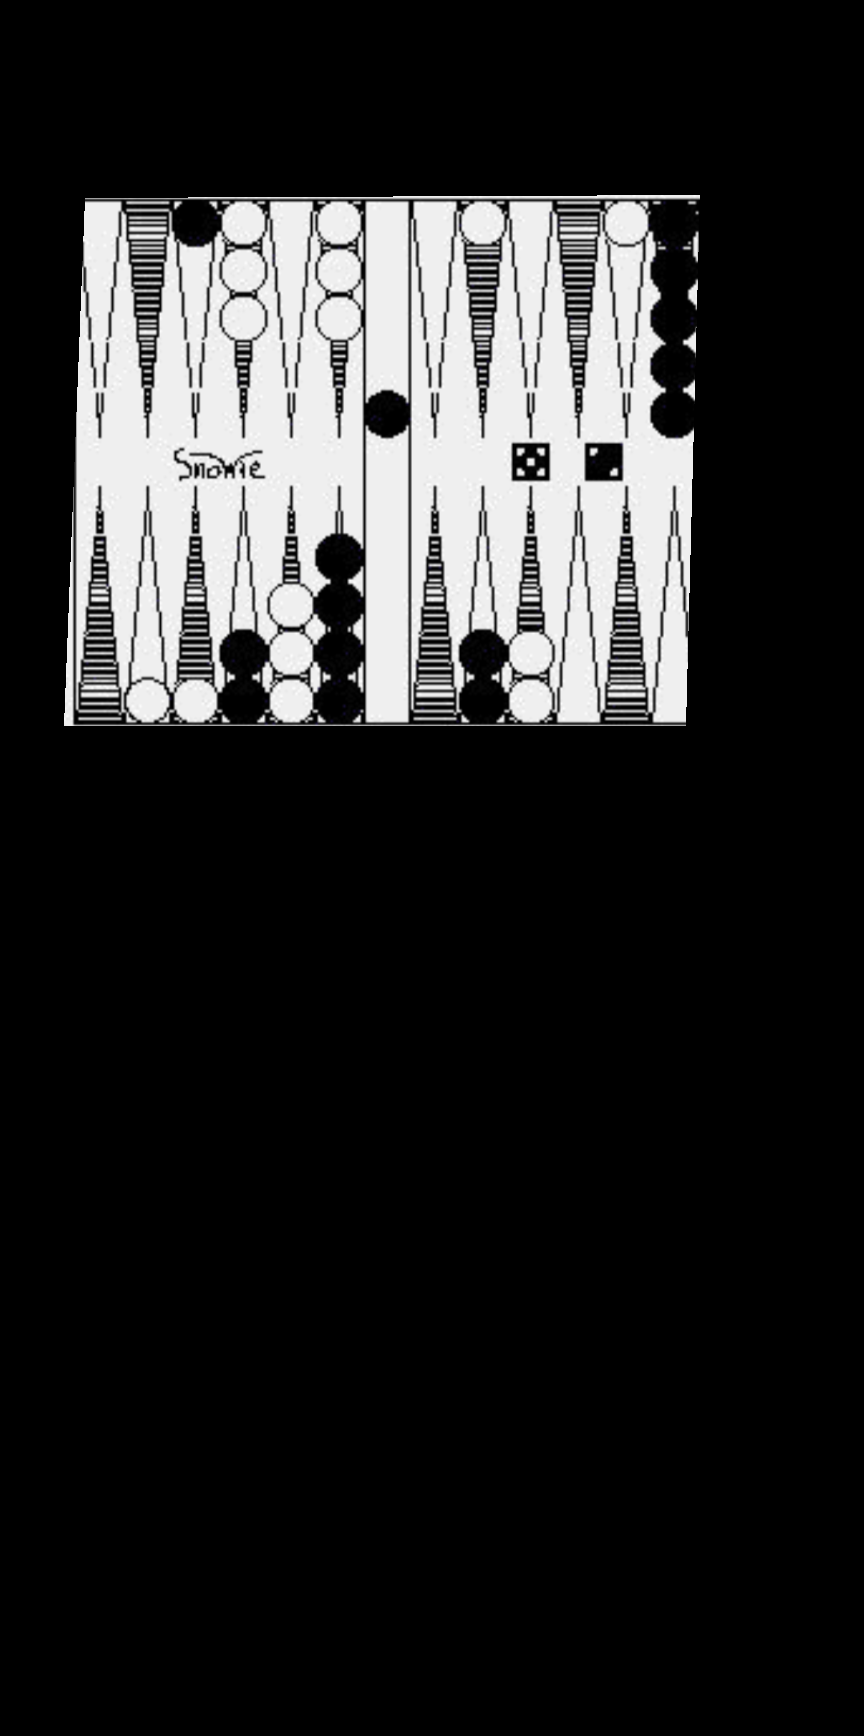
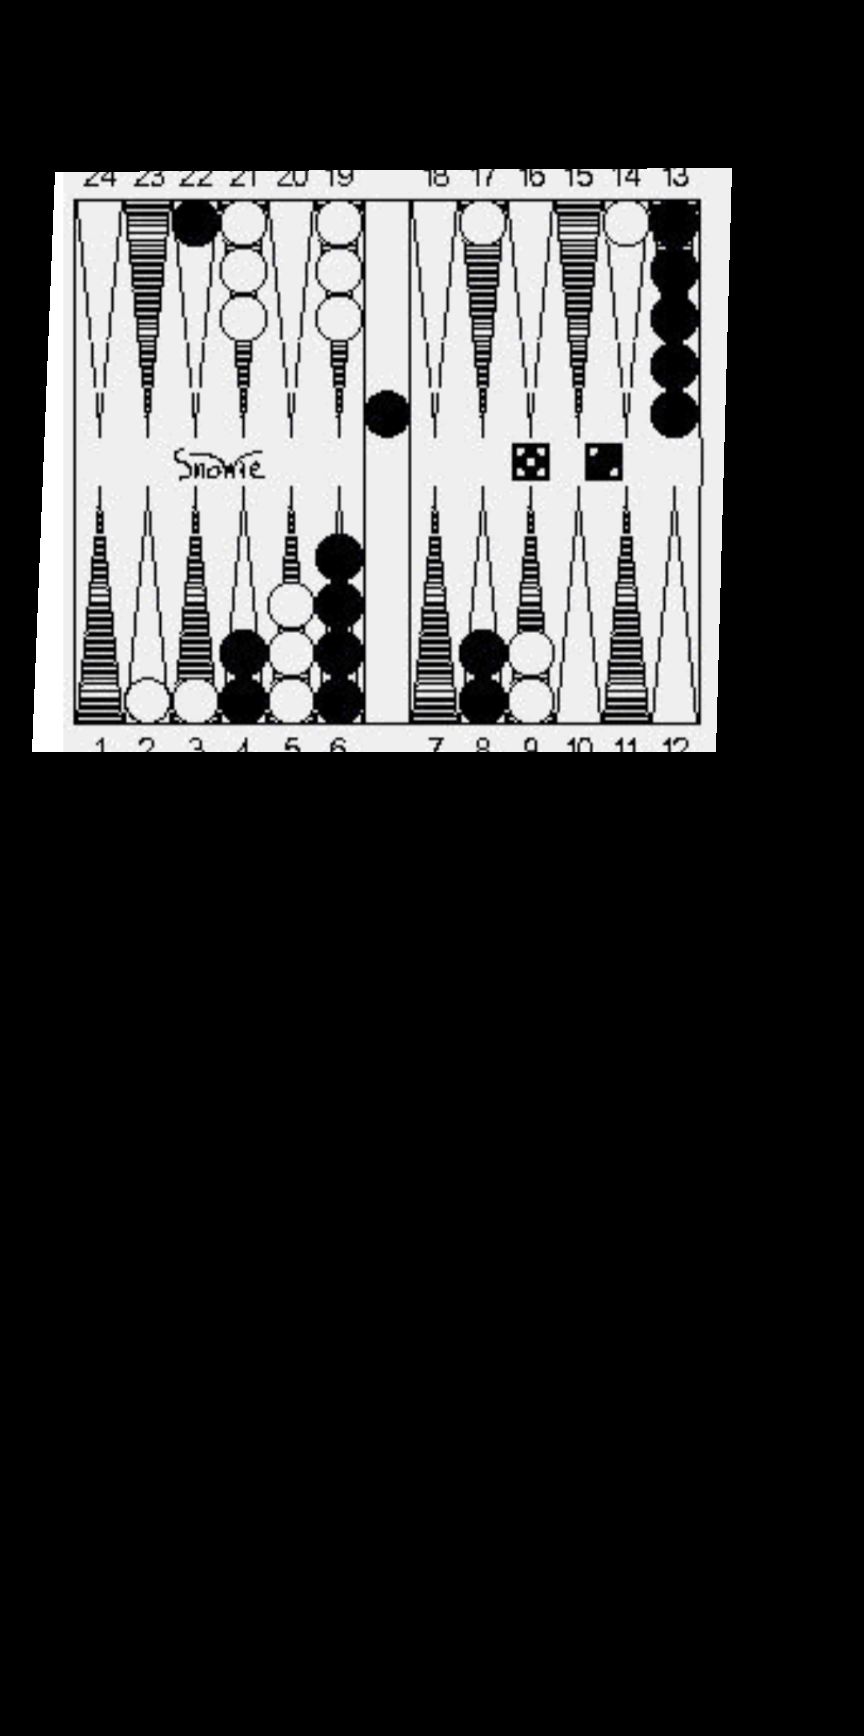
feat(recognizer): 背景の塗りつぶし処理で盤の周りを 10% 残し、集めた写真 20 組を塗り直す（TODO-179）
Claude-Session: https://claude.ai/code/session_01GwU7ktAoE8VjKZDXoMn89H

Changed region(s): [[0.0312, 0.0933, 0.8438, 0.4355]]

diff --git a/recognizer/import_collected.py b/recognizer/import_collected.py
@@ -9,7 +9,7 @@ first: the rest go in the next time. Skipped: a pair whose id is in samples/ alr
 before under another name, a photo that cannot be read. Nothing is added while a PR of an earlier time
 is open (its checks failed, it conflicts with main, or the service was restarted while waiting: someone has to
 look at it, and merge or close it).
-The photo is painted black outside the truth's corners (its size and the corners stay), and written
+The photo is painted black outside the truth's corners widened by 10% from the board's centre (its size and the corners stay), and written
 again without EXIF; of the truth, only the fields the samples have go in (anyone can send one), and the id.
 With BG_CLAUDE set, claude -p names the pair from the painted photo (what will be public anyway): its
 board and how it was taken (TODO-142). Without it, or when that fails, the pair is collected-<id>.
@@ -34,6 +34,7 @@ import cv2
 import numpy as np
 
 MAX = 10
+MARGIN = 0.1  # how much of the board is left around it, out from its centre (TODO-179)
 REPO = Path(__file__).resolve().parent.parent
 BRANCH = "claude/collected-import-"
 NAME = re.compile(
@@ -100,9 +101,11 @@ def pick(d, names, samples):
 
 
 def paint(img, corners):
-    """The photo with everything outside the board black."""
+    """The photo black outside the board widened by MARGIN from its centre (TODO-179); fillPoly stops at the photo's edges."""
+    c = np.array(corners, float)
+    c = c.mean(axis=0) + (c - c.mean(axis=0)) * (1 + MARGIN)
     mask = np.zeros(img.shape[:2], np.uint8)
-    cv2.fillPoly(mask, [np.round(np.array(corners)).astype(np.int32)], 255)
+    cv2.fillPoly(mask, [np.round(c).astype(np.int32)], 255)
     out = img.copy()
     out[mask == 0] = 0
     return out

diff --git a/analyzer/test_collected.py b/analyzer/test_collected.py
@@ -5,6 +5,7 @@ import sys
 from pathlib import Path
 
 import cv2
+import numpy as np
 import pytest
 
 import analysis  # noqa: F401  puts recognizer/ on sys.path
@@ -203,11 +204,23 @@ def test_import_paints_outside_the_board_and_keeps_only_the_fields_of_samples(
         and img.shape == orig.shape
     )
     (x0, y0), (x2, y2) = t["corners_TL_TR_BR_BL"][0], t["corners_TL_TR_BR_BL"][2]
-    assert (
-        img[: max(int(y0) - 3, 1)].max() == 0 and img[int(y2) + 3 :].max() == 0
-    )  # above and below the board
     cy, cx = int((y0 + y2) / 2), int((x0 + x2) / 2)
     assert (img[cy, cx] == orig[cy, cx]).all()  # inside, as it was
+
+
+def test_paint_leaves_10_percent_around_the_board_and_stops_at_the_edges():
+    img = np.full((100, 200, 3), 255, np.uint8)
+    # a board of 100x50 at the centre (the margin 5 and 2.5 each side), and one past the photo's left edge
+    out = import_collected.paint(img, [(50, 25), (150, 25), (150, 75), (50, 75)])
+    assert (out[50, 46] == 255).all() and (out[50, 44] == 0).all()  # left: 50 - 5
+    assert (out[23, 100] == 255).all() and (out[21, 100] == 0).all()  # top: 25 - 2.5
+    assert (out[50, 154] == 255).all() and (out[50, 156] == 0).all()  # right: 150 + 5
+    out = import_collected.paint(img, [(-10, 0), (90, 0), (90, 100), (-10, 100)])
+    assert (
+        out.shape == img.shape
+        and (out[50, 0] == 255).all()
+        and (out[50, 96] == 0).all()
+    )
 
 
 # A stand-in for claude -p: answers with FAKE_NAME on the last line (the real one is never called here)

diff --git a/archives/agents/TODO-179/repaint.py b/archives/agents/TODO-179/repaint.py
@@ -1,0 +1,35 @@
+"""Paint samples/collected-* again from the photos left in collected/ (TODO-179).
+
+    uv run python archives/agents/TODO-179/repaint.py <collected/> <dir for the old photos>
+"""
+
+import json
+import shutil
+import sys
+from pathlib import Path
+
+import cv2
+
+sys.path.insert(0, str(Path(__file__).resolve().parents[3] / "recognizer"))
+import import_collected  # noqa: E402
+
+d, old = Path(sys.argv[1]), Path(sys.argv[2])
+old.mkdir(parents=True, exist_ok=True)
+samples = Path(__file__).resolve().parents[3] / "samples"
+by_id = {import_collected.sample_id(p.name): p.name for p in d.glob("user-*.truth.json")}
+n = 0
+for p in sorted(samples.glob("collected-*.truth.json")):
+    t = json.loads(p.read_text())
+    if not (name := by_id.get(t.get("id"))):
+        continue
+    src = cv2.imread(str(import_collected.photo(d, name)))
+    dst = samples / t["image"]
+    if src is None or src.shape != cv2.imread(str(dst)).shape:
+        print("skipped (size differs or unreadable):", p.name)
+        continue
+    shutil.copy(dst, old / dst.name)
+    img = import_collected.paint(src, t["corners_TL_TR_BR_BL"])
+    cv2.imwrite(str(dst), img, [cv2.IMWRITE_JPEG_QUALITY, 95])
+    n += 1
+    print("repainted:", dst.name)
+print(n)

diff --git a/archives/agents/TODO-179/implementer-report.md b/archives/agents/TODO-179/implementer-report.md
@@ -1,0 +1,63 @@
+# TODO-179 implementer の報告
+
+## 変更点
+
+- `recognizer/import_collected.py:37` `MARGIN = 0.1` を足した
+- `recognizer/import_collected.py:103-110` `paint`: 四隅を四隅の平均（盤の中心）から外へ 1.1 倍に広げた四角の外を黒くする。写真の外へはみ出す分は `cv2.fillPoly` が写真の端で切る
+- `recognizer/import_collected.py:13` docstring の説明を合わせた
+- `analyzer/test_collected.py:208-210` 既存のテストから「四隅のすぐ外（3px）が黒い」の確かめを外した（広げたので成り立たない。中が元のままの確かめは残す）
+- `analyzer/test_collected.py:211-` `test_paint_leaves_10_percent_around_the_board_and_stops_at_the_edges` を足した（左・上・右の境目の内外と、写真の左にはみ出す四隅）
+- `samples/collected-*` 20 組を塗り直した（下）。写真の大きさ・四隅の座標・`*.truth.json` は変えていない
+- `recognizer/accuracy_baseline.json` を `check_accuracy.py --update --jobs=4` で書き直した
+- `recognizer/README.md:59` 集めた写真の行: 1392 ポイント中 1196 → 1181（`import_collected.table_row` で作り直した）
+- `CLAUDE.md:51-53`「変えないもの」: 塗る範囲（10% 広げた四角の外）と、周りの手や物が写りやすくなる点を書いた
+- `TODO.md` TODO-179: 「何を決めるか」の段落を消し、背景に「塗り直しは開発機で行う」を 1 行足した。ローカルの行までチェックを入れた
+- `archives/agents/TODO-179/repaint.py`: 塗り直しに使ったスクリプト。`samples/collected-*.truth.json` の `id` と `collected/user-*-<id>.truth.json` を `import_collected.sample_id` で対応させ、`paint` で塗り直す
+
+## 塗り直した組
+
+`collected/` に元の写真があったのは 22 組。そのうち 20 組を塗り直し、2 組は元に戻した（判断が要る点を参照）。
+
+塗り直し前後の画像（左が前、右が後。リポジトリには入れていない）:
+
+- `/home/ytani/tmp/playwright-mcp/todo179/collected-green-felt-side-hand.jpg`
+- `/home/ytani/tmp/playwright-mcp/todo179/collected-app-grey-shot.jpg`
+- `/home/ytani/tmp/playwright-mcp/todo179/collected-blue-red-top.jpg`
+- `/home/ytani/tmp/playwright-mcp/todo179/all-after.jpg`（塗り直した 20 組の一覧。人の顔が新たに写った組は見当たらない。手は元から写っている -hand の組だけ）
+
+対応が正しいことは、盤の中の画素の差で確かめた（各組とも 1 画素あたり平均 0.5 以下。JPEG の書き直し分）。
+
+## 精度（基準の変化）
+
+合計 2064 ポイント中 1814 → 1799（-15）。良くなった 4 組・悪くなった 7 組:
+diagram-bw-far 18→21、red-blue-far 14→20、tan-black-side-3 16→18、wood-side（bar・cube が ok に）、
+app-grey-shot 24→21（cube WRONG に）、black-red-oblique 24→21、carved-tan-oblique 19→15、cork-green-side 12→11（bar が外れる）、
+galaxy-screen-7 24→14（home が外れる）、green-felt-side-hand 16→12、tan-red-side 13→12（home は当たるように）。
+盤の周りが残って実際の写真に近づいた分の変化で、読み取りのコードは変えていない。
+
+## 検証
+
+- `uv run pytest -q analyzer/test_collected.py` → 13 passed（終了コード 0）
+- `MARGIN = 0.0` に戻すと新しいテストが落ちることを確かめた（1 failed）
+- `uv run ruff check` → All checks passed、`uv run ruff format --check` → 58 files already formatted
+- `uv run python recognizer/check_accuracy.py --update --jobs=4` → 終了コード 0、1799/2064 points
+- 誤って `check_accuracy.py --help`（引数を見ないので全サンプルの確認として走る）を流し、途中で止めた。結果は使っていない
+
+## 版
+
+上げない。`import_collected.py` は `samples/` へ取り込む道具で、アプリ（PWA・API）の読み取りの結果は変わらないため（CLAUDE.md の「バージョン」の、測る道具だけの変更と同じ扱い）。
+
+## ローカルの確認
+
+要らないと判断した。アプリの画面と読み取りは変わらない。新しい塗り方は、次に読み違いの組が自動で取り込まれたときに使われる。
+
+## 判断が要る点
+
+1. **「10% 広げる」の読み方。** 盤の中心から各隅までの距離を 1.1 倍にした（盤の幅・高さがそれぞれ 10% 大きくなる。各辺の外に 5% ずつ残る）。「各辺の外に盤の大きさの 10% ずつ残す」（1.2 倍）の意味なら `MARGIN = 0.2` にして塗り直しをやり直す
+2. **collected-galaxy-screen-9 は塗り直さなかった。** TODO-175 で利用者の指示により塗っていない元の写真にしてあり（7ff61f2）、`analyzer/test_corners.py` も使っている
+3. **collected-tan-black-side-1 は塗り直さなかった。** 2026-10-16 に手で入れた組（524d9de）で、今の写真は盤の右上の外が手で塗られている。新しい幅で塗ると右上に人の肌（顔か腕）が出る（`/home/ytani/tmp/playwright-mcp/todo179/collected-tan-black-side-1.jpg`）。塗り直すなら、その部分を手で塗る必要がある
+
+## 残る懸念
+
+- black-red-oblique の上の縁に、指のようなものが小さく写っているかもしれない（一覧の縮小画像で見た限り。実害は未確認）
+- 精度の合計が 15 ポイント下がる。CI の `accuracy` は書き直した基準と比べるので落ちない見込み

diff --git a/TODO.md b/TODO.md
@@ -66,15 +66,14 @@ TODO-120 で、横から撮った写真のモード（`recognizer/side.py`）を
 
 読み違いの組を `samples/` に入れるときの背景の塗りつぶし処理（`recognizer/import_collected.py` の `paint`）は、今は四隅のちょうど外を黒くする。
 元の写真と大きく変わり、精度の改善に役立たないことが多い（2026-10-20 ユーザーの指摘）。
+塗り直しは開発機で行う（`collected/` は開発機にある）。
 
-- [ ] 四隅を盤の中心から外へ、盤の大きさの 10% 広げた四角の外を黒くする（ユーザーが決めた）。写真の外にはみ出す分は写真の端で止める
-- [ ] すでに `samples/` にある `collected-*` のうち、`collected/` に元の写真が残っている組は、新しい幅で塗り直して入れ替える（ユーザーが決めた）。元が無い組はそのまま
-- [ ] 入れ替えたら `check_accuracy.py --update` で基準を書き直し、`recognizer/README.md` の精度の表も直す
-- [ ] CLAUDE.md の「変えないもの」の `samples/` の記述（盤の外を黒く塗る）を、盤の周りが広く残ることに合わせて直す。広く残る分、手や周りの物が公開の写真に写りやすくなる点も書く
-- [ ] 版: `import_collected.py` は測る道具ではなくアプリの外の取り込みなので、recognizer の版を上げるかは実装時に CLAUDE.md の「バージョン」で判断する
-- [ ] ローカル: マージ後にローカルホストで確かめるものがあれば足す（実装時に判断）
-
-**何を決めるか:** `collected/` の元の写真が Pi にだけあり開発機に無い場合、どこで塗り直すか。**選択肢:** 元の写真を開発機へ持ってくる／Pi で塗り直す。**いつ聞くか:** 実装の前（まず `collected/` が開発機にあるかを見る）。
+- [x] 四隅を盤の中心から外へ、盤の大きさの 10% 広げた四角の外を黒くする（ユーザーが決めた）。写真の外にはみ出す分は写真の端で止める
+- [x] すでに `samples/` にある `collected-*` のうち、`collected/` に元の写真が残っている組は、新しい幅で塗り直して入れ替える（ユーザーが決めた）。元が無い組はそのまま
+- [x] 入れ替えたら `check_accuracy.py --update` で基準を書き直し、`recognizer/README.md` の精度の表も直す
+- [x] CLAUDE.md の「変えないもの」の `samples/` の記述（盤の外を黒く塗る）を、盤の周りが広く残ることに合わせて直す。広く残る分、手や周りの物が公開の写真に写りやすくなる点も書く
+- [x] 版: `import_collected.py` は測る道具ではなくアプリの外の取り込みなので、recognizer の版を上げるかは実装時に CLAUDE.md の「バージョン」で判断する
+- [x] ローカル: 要らない（アプリの画面と読み取りは変わらない。塗り方はテストと塗り直した組で確かめる）
 
 **無駄を省く工夫:** 確かめるのは 2〜3 組の塗り直しの画像を目で見ることと、CI の `accuracy`。全サンプルを手元で測り直さない
 

diff --git a/recognizer/README.md b/recognizer/README.md
@@ -56,7 +56,7 @@ JPEG 品質 0.92 で書き出した写真（PWA は長辺 2560px を超える写
 | Wikimedia Commons の写真 3枚（TODO-017 で追加。途中局面・斜め・盤上のダイス。下の表） | 72ポイント中 49（Raspberry Pi で測定） | 同じ（縮めない） |
 | Wikimedia Commons の盤面図 3枚と写真 1枚（TODO-024 で追加。途中局面・バーの駒・2 人分のダイス。下の表） | 96ポイント中 84 | 同じ（縮めない） |
 | テレビに映った盤を撮った写真 tv-vegas-open（Las Vegas Open、青とオレンジ、キューブ 2 が盤の中。TODO-044） | 23（x86_64 も 0.13.1 から 23。0.13.0 までは 6 ポイントの 1 個を見落として 22。残りの 1 つは 13 ポイントの赤い三角形を奥の駒と読むもの。0.14.0 から 24（その円は点数がしきい値をわずかに下回って落ちるだけだったので、0.17.1 で色でも落とすようにした。TODO-048）。キューブは 0.13.0 から「盤の中」と読み、奥がダブルされたところとして当たる） | 同じ（縮めない） |
-| 集めた写真 58枚（`samples/collected-*`、ユーザーがスマホで直した盤面。実物の盤・配信の画面・アプリの画面。読み違いのある組を自動で取り込む） | 1392ポイント中 1196（recognizer 0.29.3、2026-10-20） | － |
+| 集めた写真 58枚（`samples/collected-*`、ユーザーがスマホで直した盤面。実物の盤・配信の画面・アプリの画面。読み違いのある組を自動で取り込む） | 1392ポイント中 1181（recognizer 0.29.3、2026-10-20） | － |
 | USBGF の盤面図 7枚（`samples/external/`、画像はリポジトリに入れない） | 168ポイント中 166（直す前 147） | － |
 
 `python3 evaluate.py --app` は OpenCV（バイリニア＋JPEG 0.92）で同じ縮め方を真似る。ブラウザとの画素の差は

diff --git a/CLAUDE.md b/CLAUDE.md
@@ -49,7 +49,8 @@ uv run -q --no-project --with playwright python tools/live_view.py   # スマホ
   photo1（人の顔が写っていた斜め撮影の写真）は 2026-10-13 にファイルも Git の履歴も削除した。入れ直さない
 - `collected/` の読み違いのある組は、開発機（`BG_IMPORT` を設定したサーバー。誰でも送れる Pi では動かさない）で
   `recognizer/import_collected.py` が盤の外を黒く塗って `samples/collected-*` に入れ、PR をマージまで自動で進める（TODO-114）。
-  **盤の上に写った手や物、直し忘れた正解はそのまま公開される**（2026-10-17 ユーザーが決めた）。見つけたら、写っていけないものを手で黒く塗りつぶすか、その組を消す PR を出す
+  塗るのは、四隅を盤の中心から外へ盤の大きさの 10% 広げた四角の外で、盤の周りは残る（TODO-179）。
+  **盤の上や盤の周りに写った手や物、直し忘れた正解はそのまま公開される**（2026-10-17 ユーザーが決めた）。周りを広く残す分、手や周りの物が写りやすい。見つけたら、写っていけないものを手で黒く塗りつぶすか、その組を消す PR を出す
 
 ## バージョン
 
